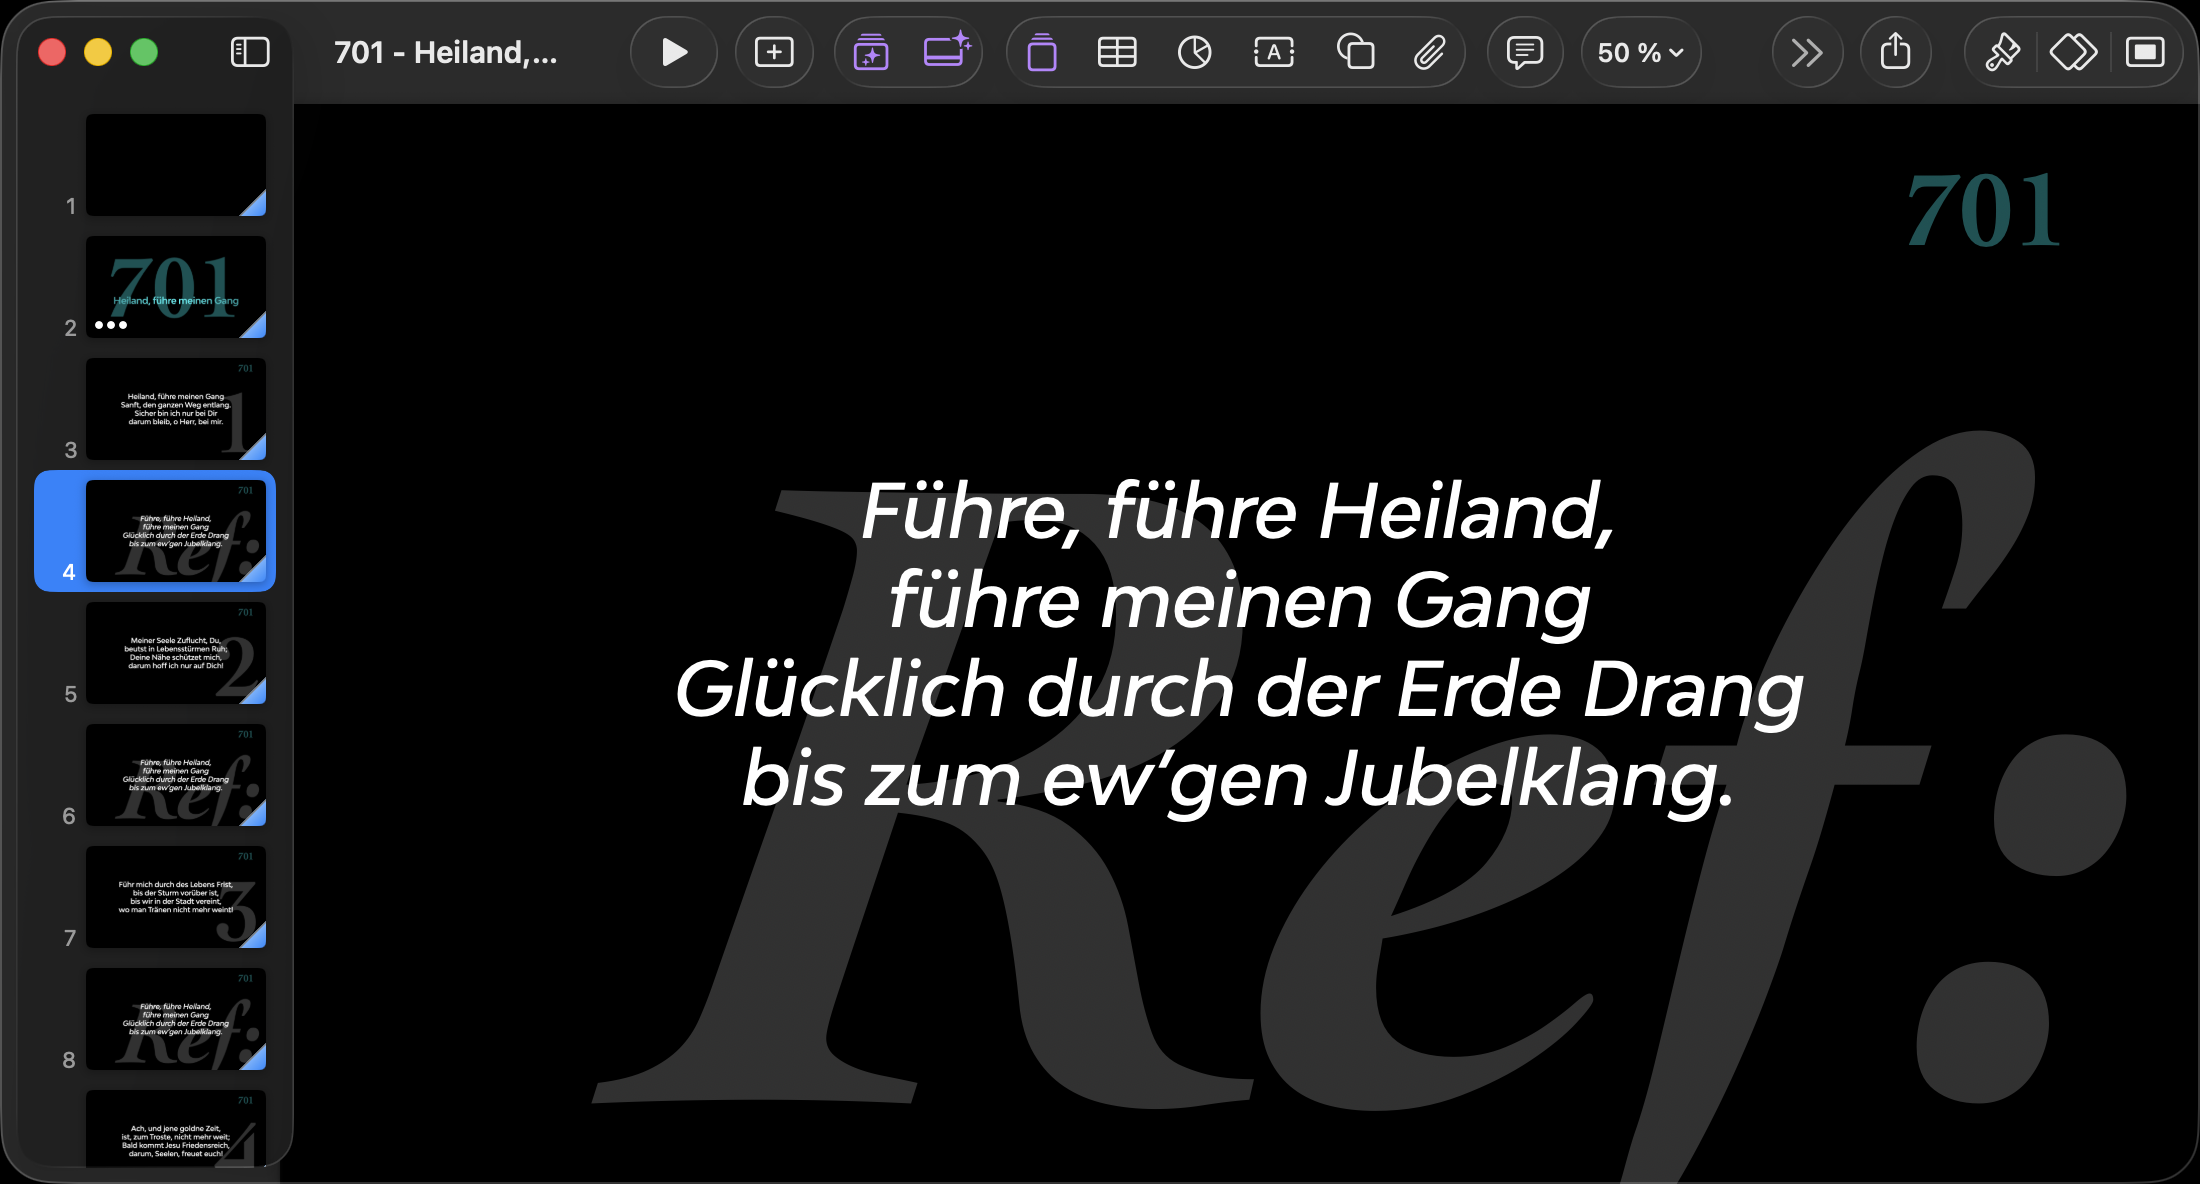
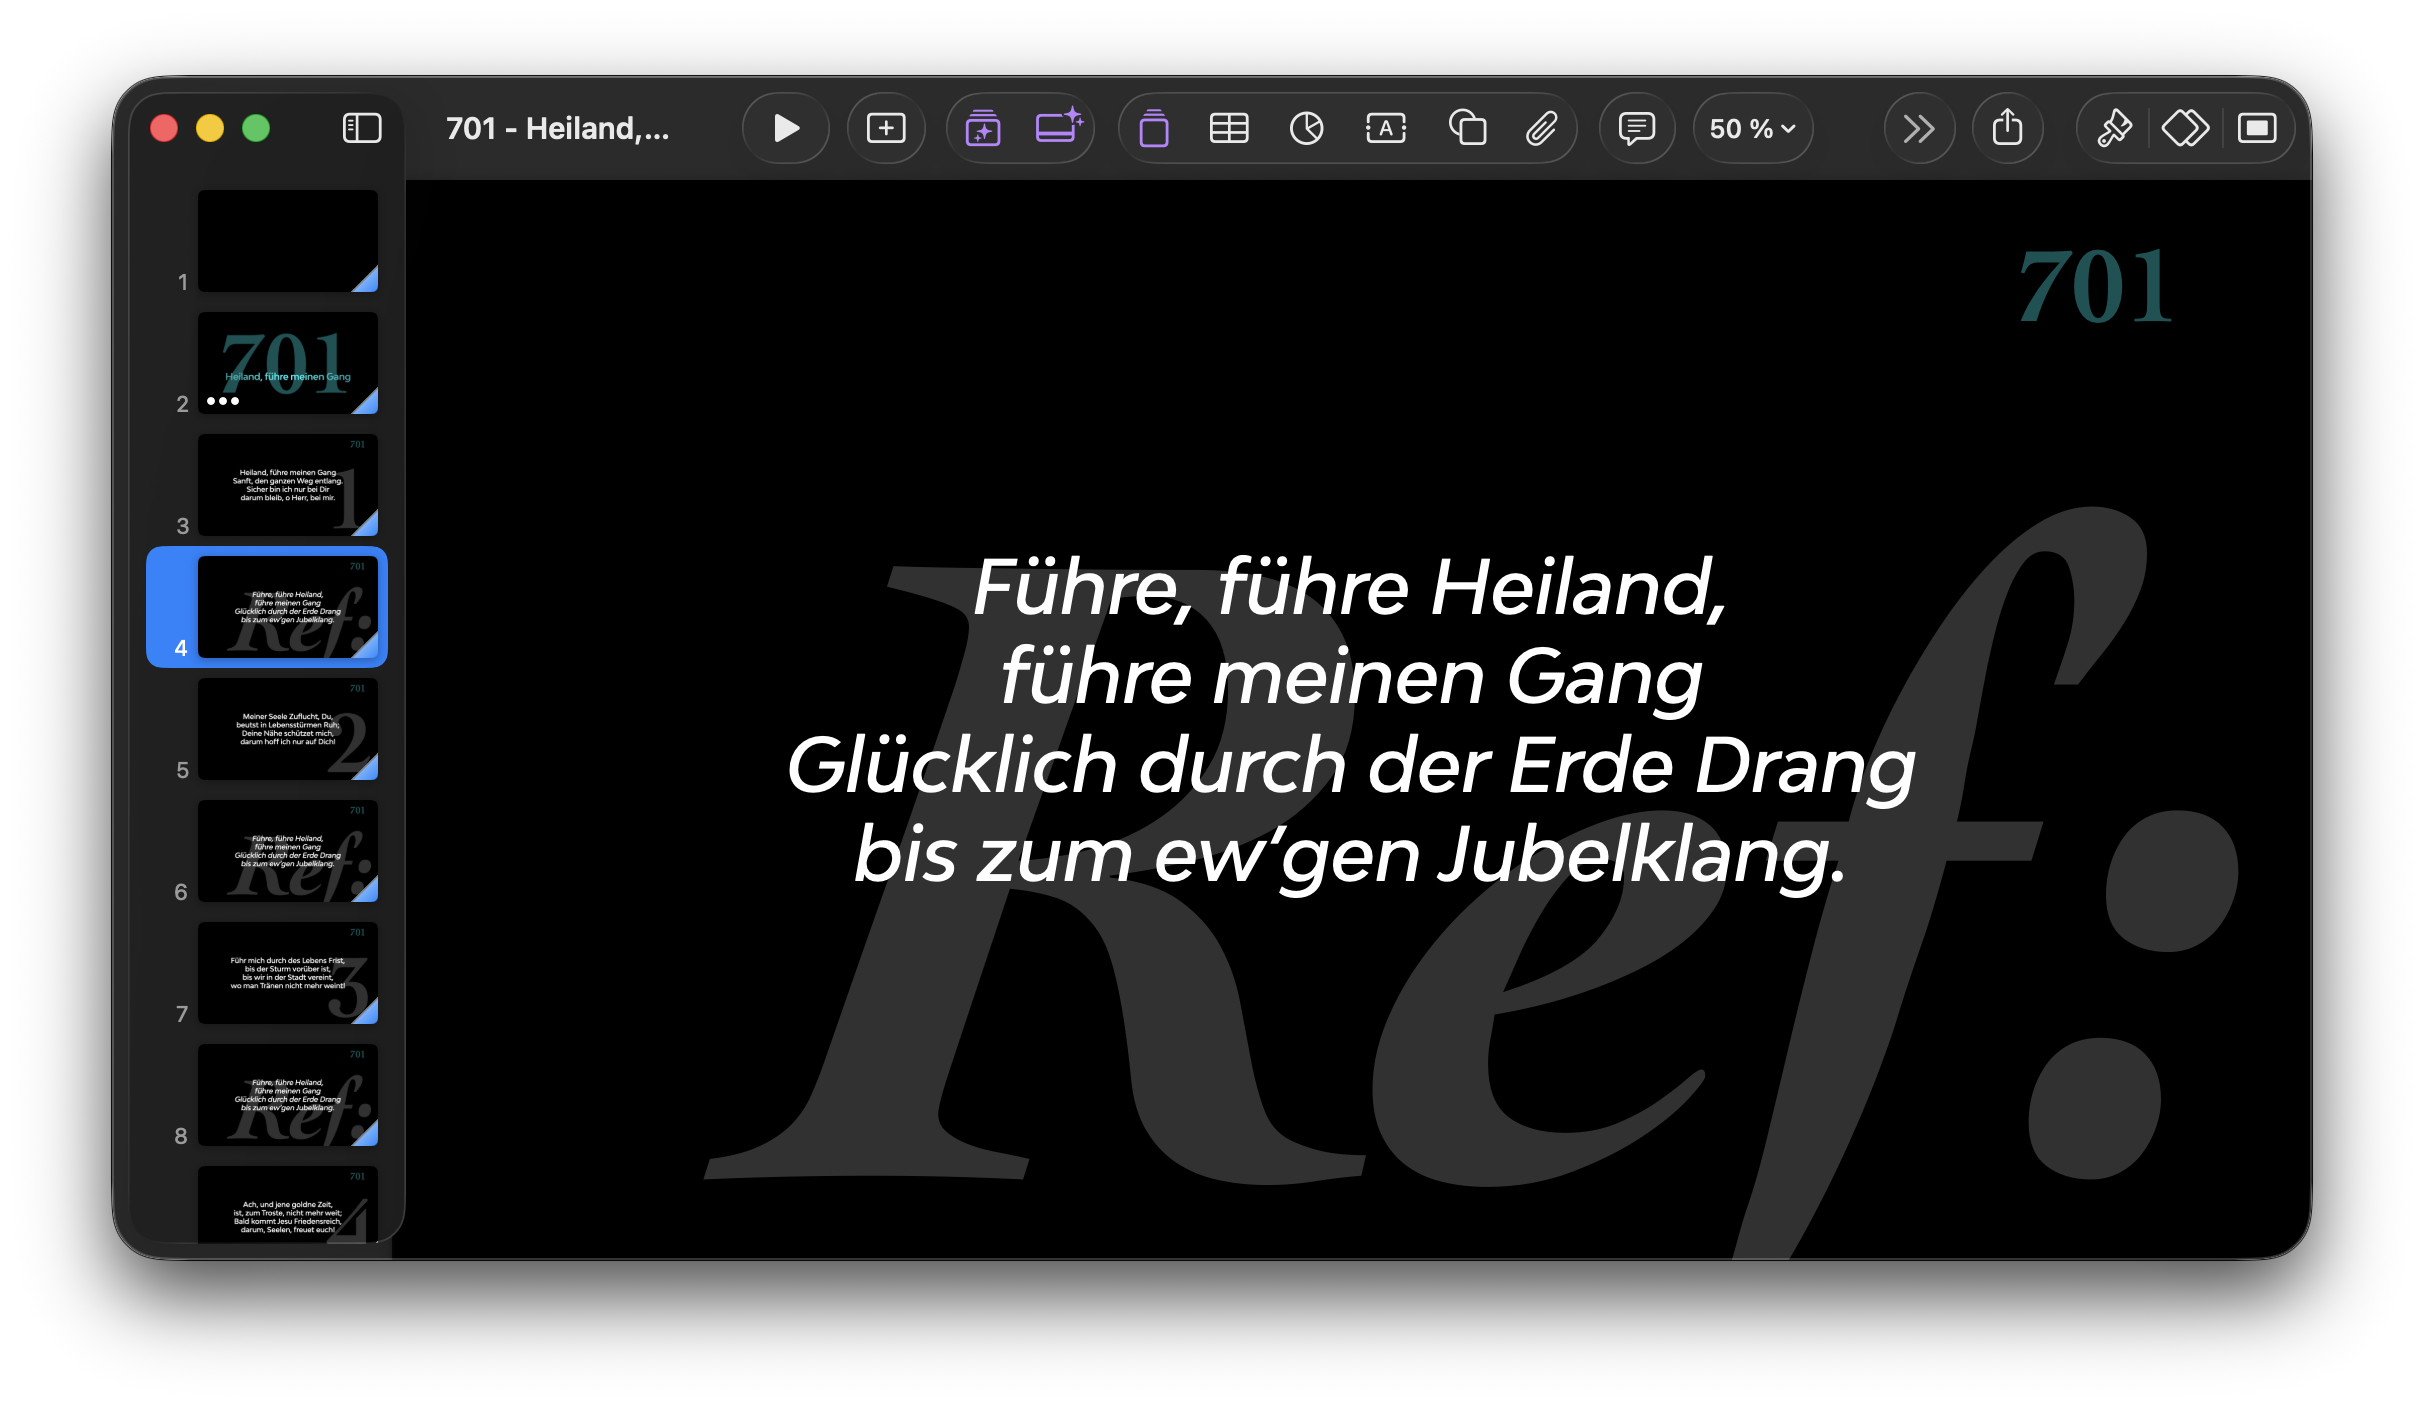
Restore the original screenshots with their shadow, add the verse slide
I cropped the macOS window shadow off in the previous commit after
misreading a note about it - the shadow was wanted, not unwanted. These
are the untouched originals again.

Also adds the verse slide to the README, so the three layouts (cover,
verse, refrain) are all shown.

diff --git a/README.md b/README.md
@@ -25,6 +25,11 @@
 
 <br><br>
 
+<img src="screenshots/keynote-real-3.png" width="700" alt="Verse slide">
+<br><sub>Verse slide — the verse number sits behind the text as a watermark</sub>
+
+<br><br>
+
 <img src="screenshots/keynote-real-2.png" width="700" alt="Refrain slide">
 <br><sub>Refrain slide — the oversized <i>Ref:</i> mark sets it apart from a verse at a glance</sub>
 
